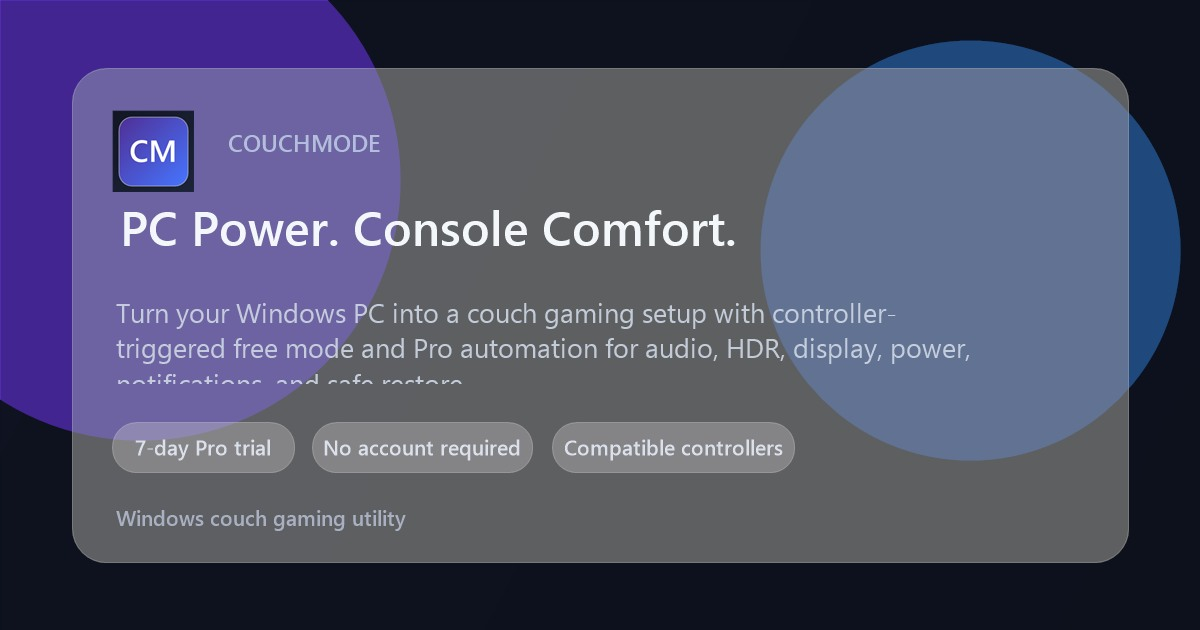
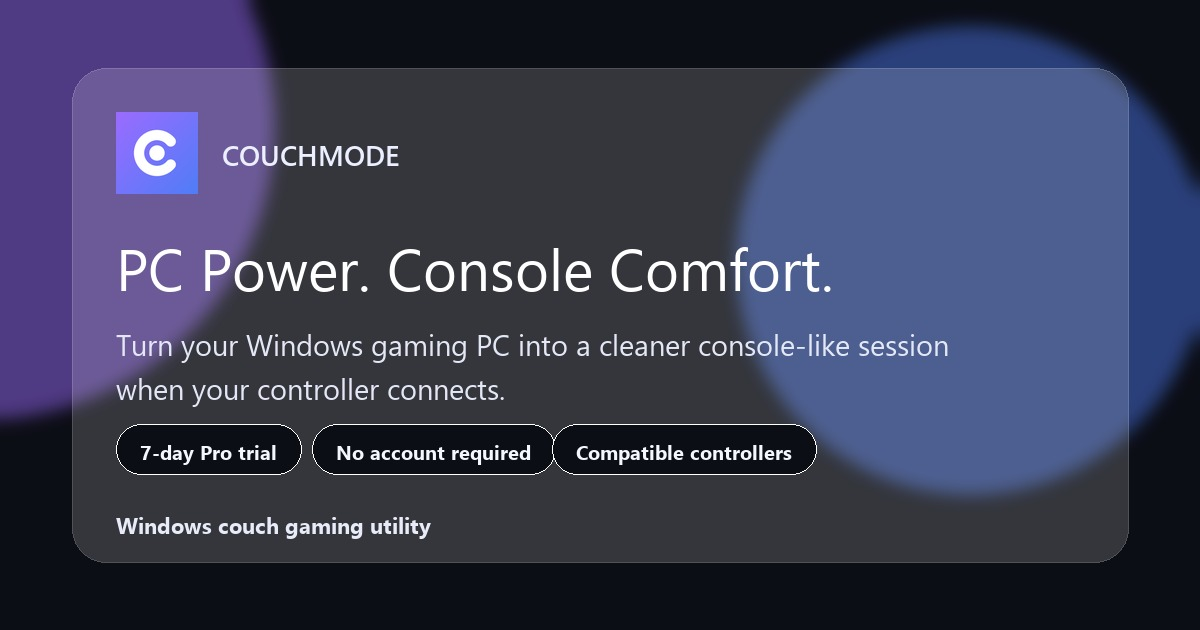
Apply LogoPack website branding

diff --git a/src/components/landing/Footer.tsx b/src/components/landing/Footer.tsx
@@ -3,13 +3,14 @@ export function Footer() {
     <footer className="relative border-t border-border py-12 mt-12">
       <div className="mx-auto max-w-7xl px-4 sm:px-6 lg:px-8">
         <div className="flex flex-col sm:flex-row items-start sm:items-center justify-between gap-6">
-          <div className="flex items-center gap-2">
-            <span className="grid place-items-center h-7 w-7 rounded-lg bg-aurora">
-              <span className="h-2.5 w-2.5 rounded-sm bg-background" />
-            </span>
-            <span className="font-display font-semibold tracking-tight">
-              CouchMode
-            </span>
+          <div className="flex items-center">
+            <img
+              src="/brand/logo-lockup-dark.svg"
+              alt="CouchMode"
+              width={115}
+              height={28}
+              className="h-7 w-auto"
+            />
           </div>
 
           <nav className="flex flex-wrap gap-x-6 gap-y-2 text-sm text-muted-foreground">

diff --git a/src/components/landing/Navbar.tsx b/src/components/landing/Navbar.tsx
@@ -24,13 +24,14 @@ export function Navbar() {
     >
       <div className="mx-auto max-w-7xl px-4 sm:px-6 lg:px-8">
         <div className="flex items-center justify-between py-2">
-          <a href="#" className="flex items-center gap-2 group">
-            <span className="grid place-items-center h-8 w-8 rounded-lg bg-aurora glow-violet">
-              <span className="h-3 w-3 rounded-sm bg-background" />
-            </span>
-            <span className="font-display font-semibold text-lg tracking-tight">
-              CouchMode
-            </span>
+          <a href="#" className="flex items-center group" aria-label="CouchMode home">
+            <img
+              src="/brand/logo-lockup-dark.svg"
+              alt="CouchMode"
+              width={131}
+              height={32}
+              className="h-8 w-auto"
+            />
           </a>
 
           <nav className="hidden md:flex items-center gap-8">

diff --git a/src/routes/__root.tsx b/src/routes/__root.tsx
@@ -80,6 +80,11 @@ export const Route = createRootRouteWithContext<{ queryClient: QueryClient }>()(
         rel: "stylesheet",
         href: appCss,
       },
+      { rel: "icon", href: "/favicon.svg", type: "image/svg+xml" },
+      { rel: "icon", href: "/favicon-32.png", sizes: "32x32", type: "image/png" },
+      { rel: "icon", href: "/favicon-16.png", sizes: "16x16", type: "image/png" },
+      { rel: "apple-touch-icon", href: "/apple-touch-icon.png", sizes: "180x180" },
+      { rel: "manifest", href: "/site.webmanifest" },
       { rel: "preconnect", href: "https://fonts.googleapis.com" },
       { rel: "preconnect", href: "https://fonts.gstatic.com", crossOrigin: "anonymous" },
       {

diff --git a/src/routes/index.tsx b/src/routes/index.tsx
@@ -72,7 +72,7 @@ export const Route = createFileRoute("/")({
           "@type": "Brand",
           name: "CouchMode",
           url: "https://couchmode.app/",
-          logo: "https://couchmode.app/icon-512.png",
+          logo: "https://couchmode.app/apple-touch-icon.png",
         },
       },
     ],